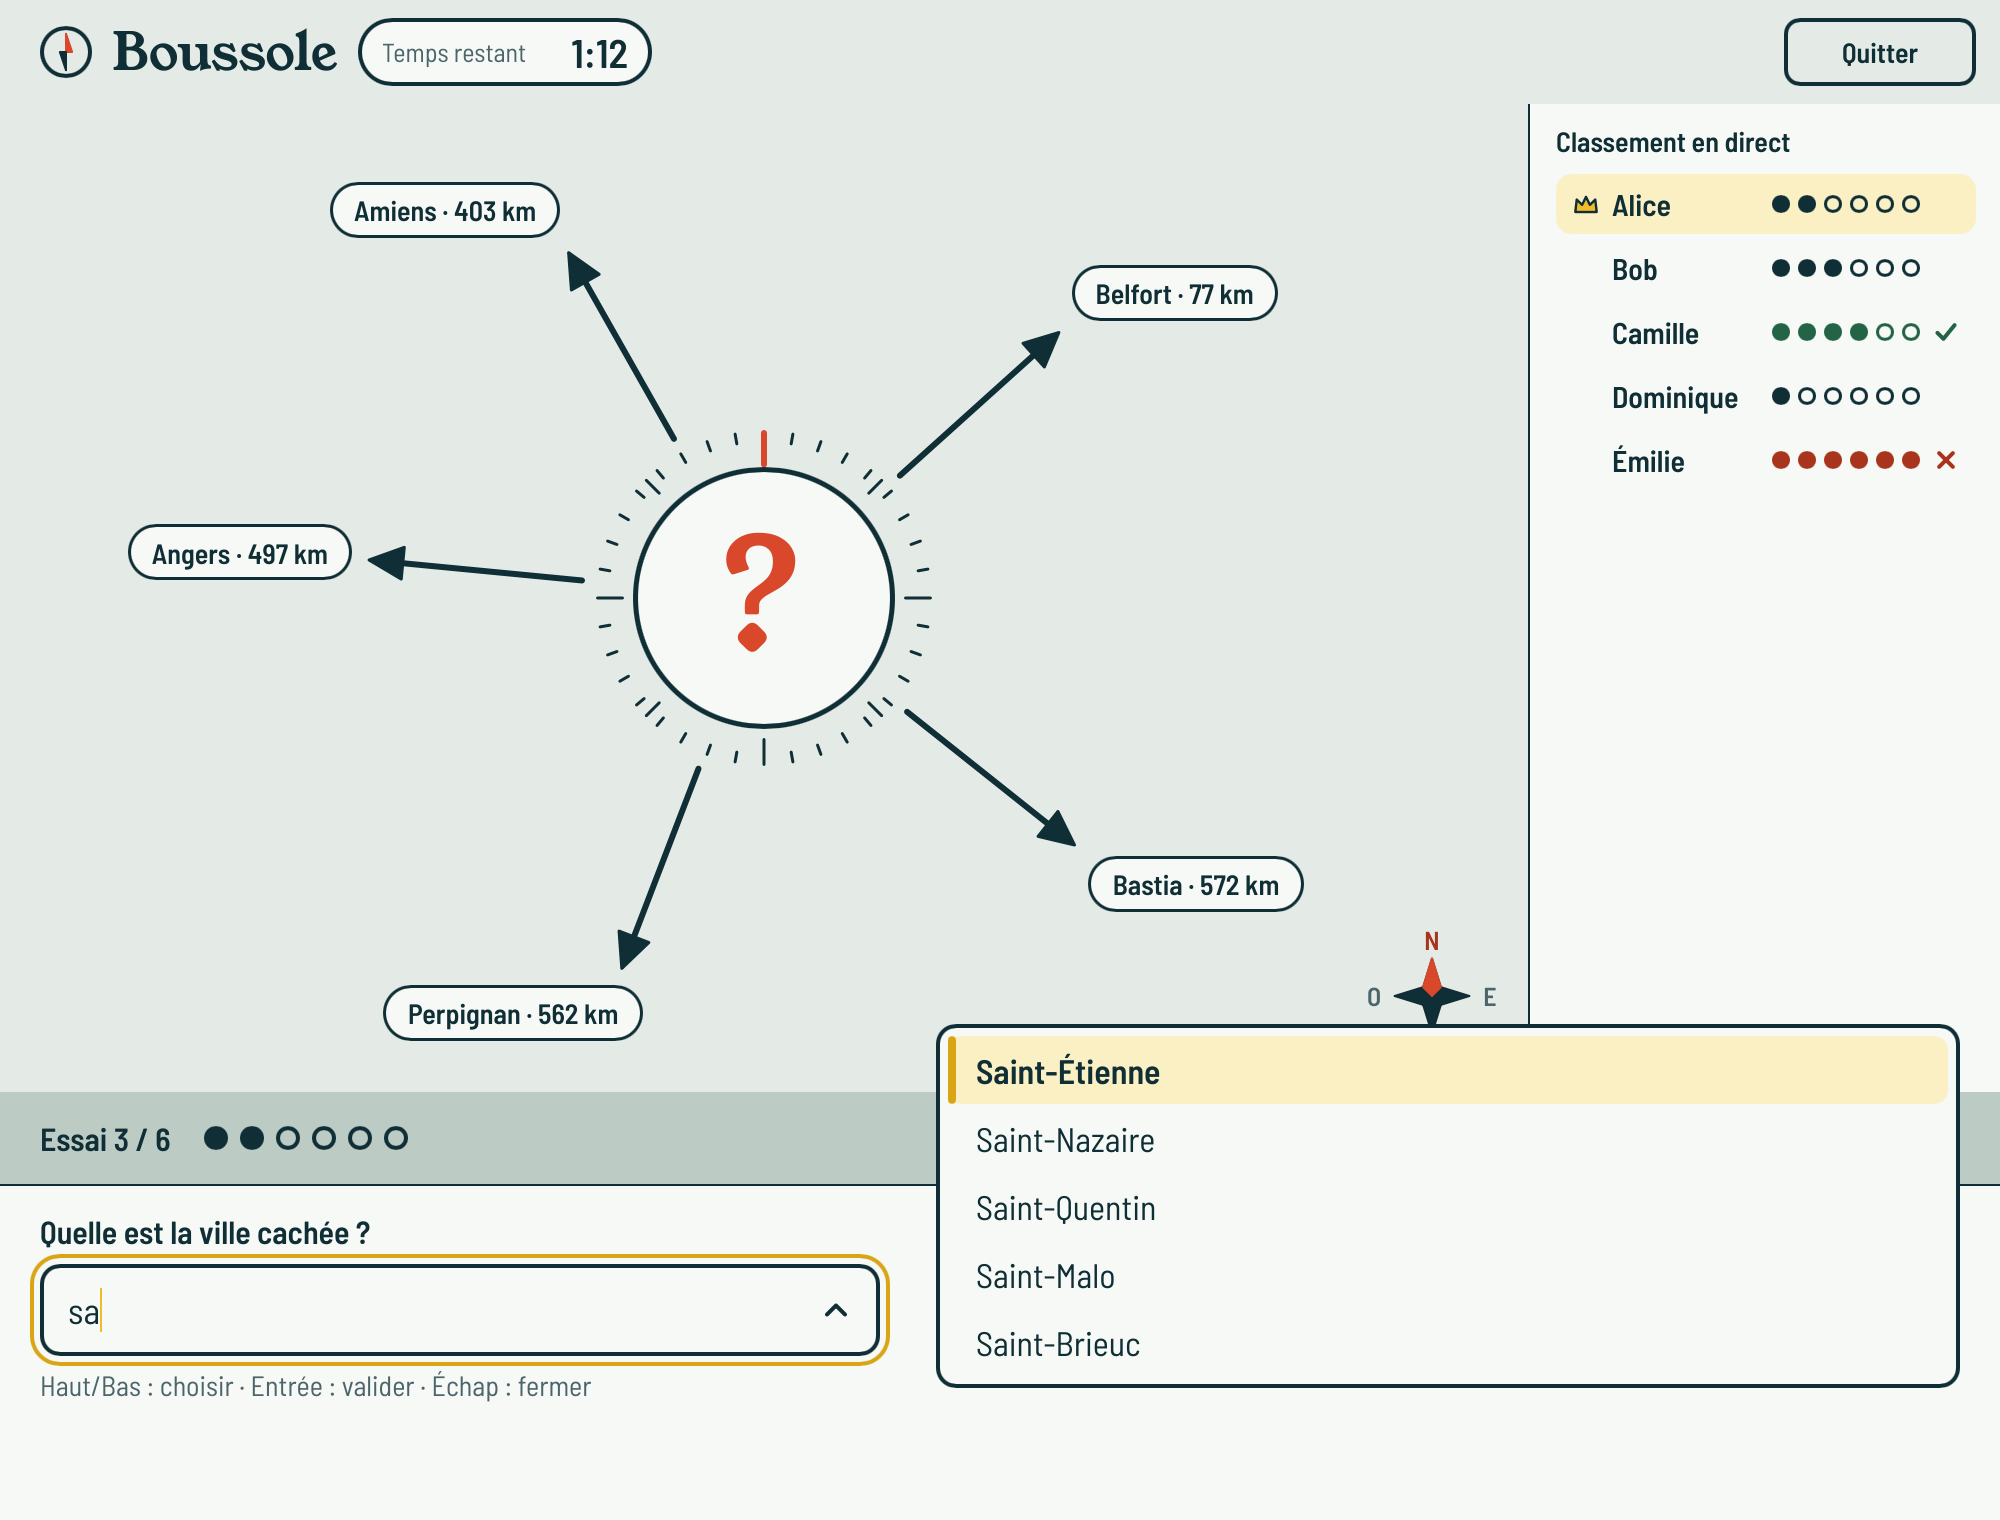
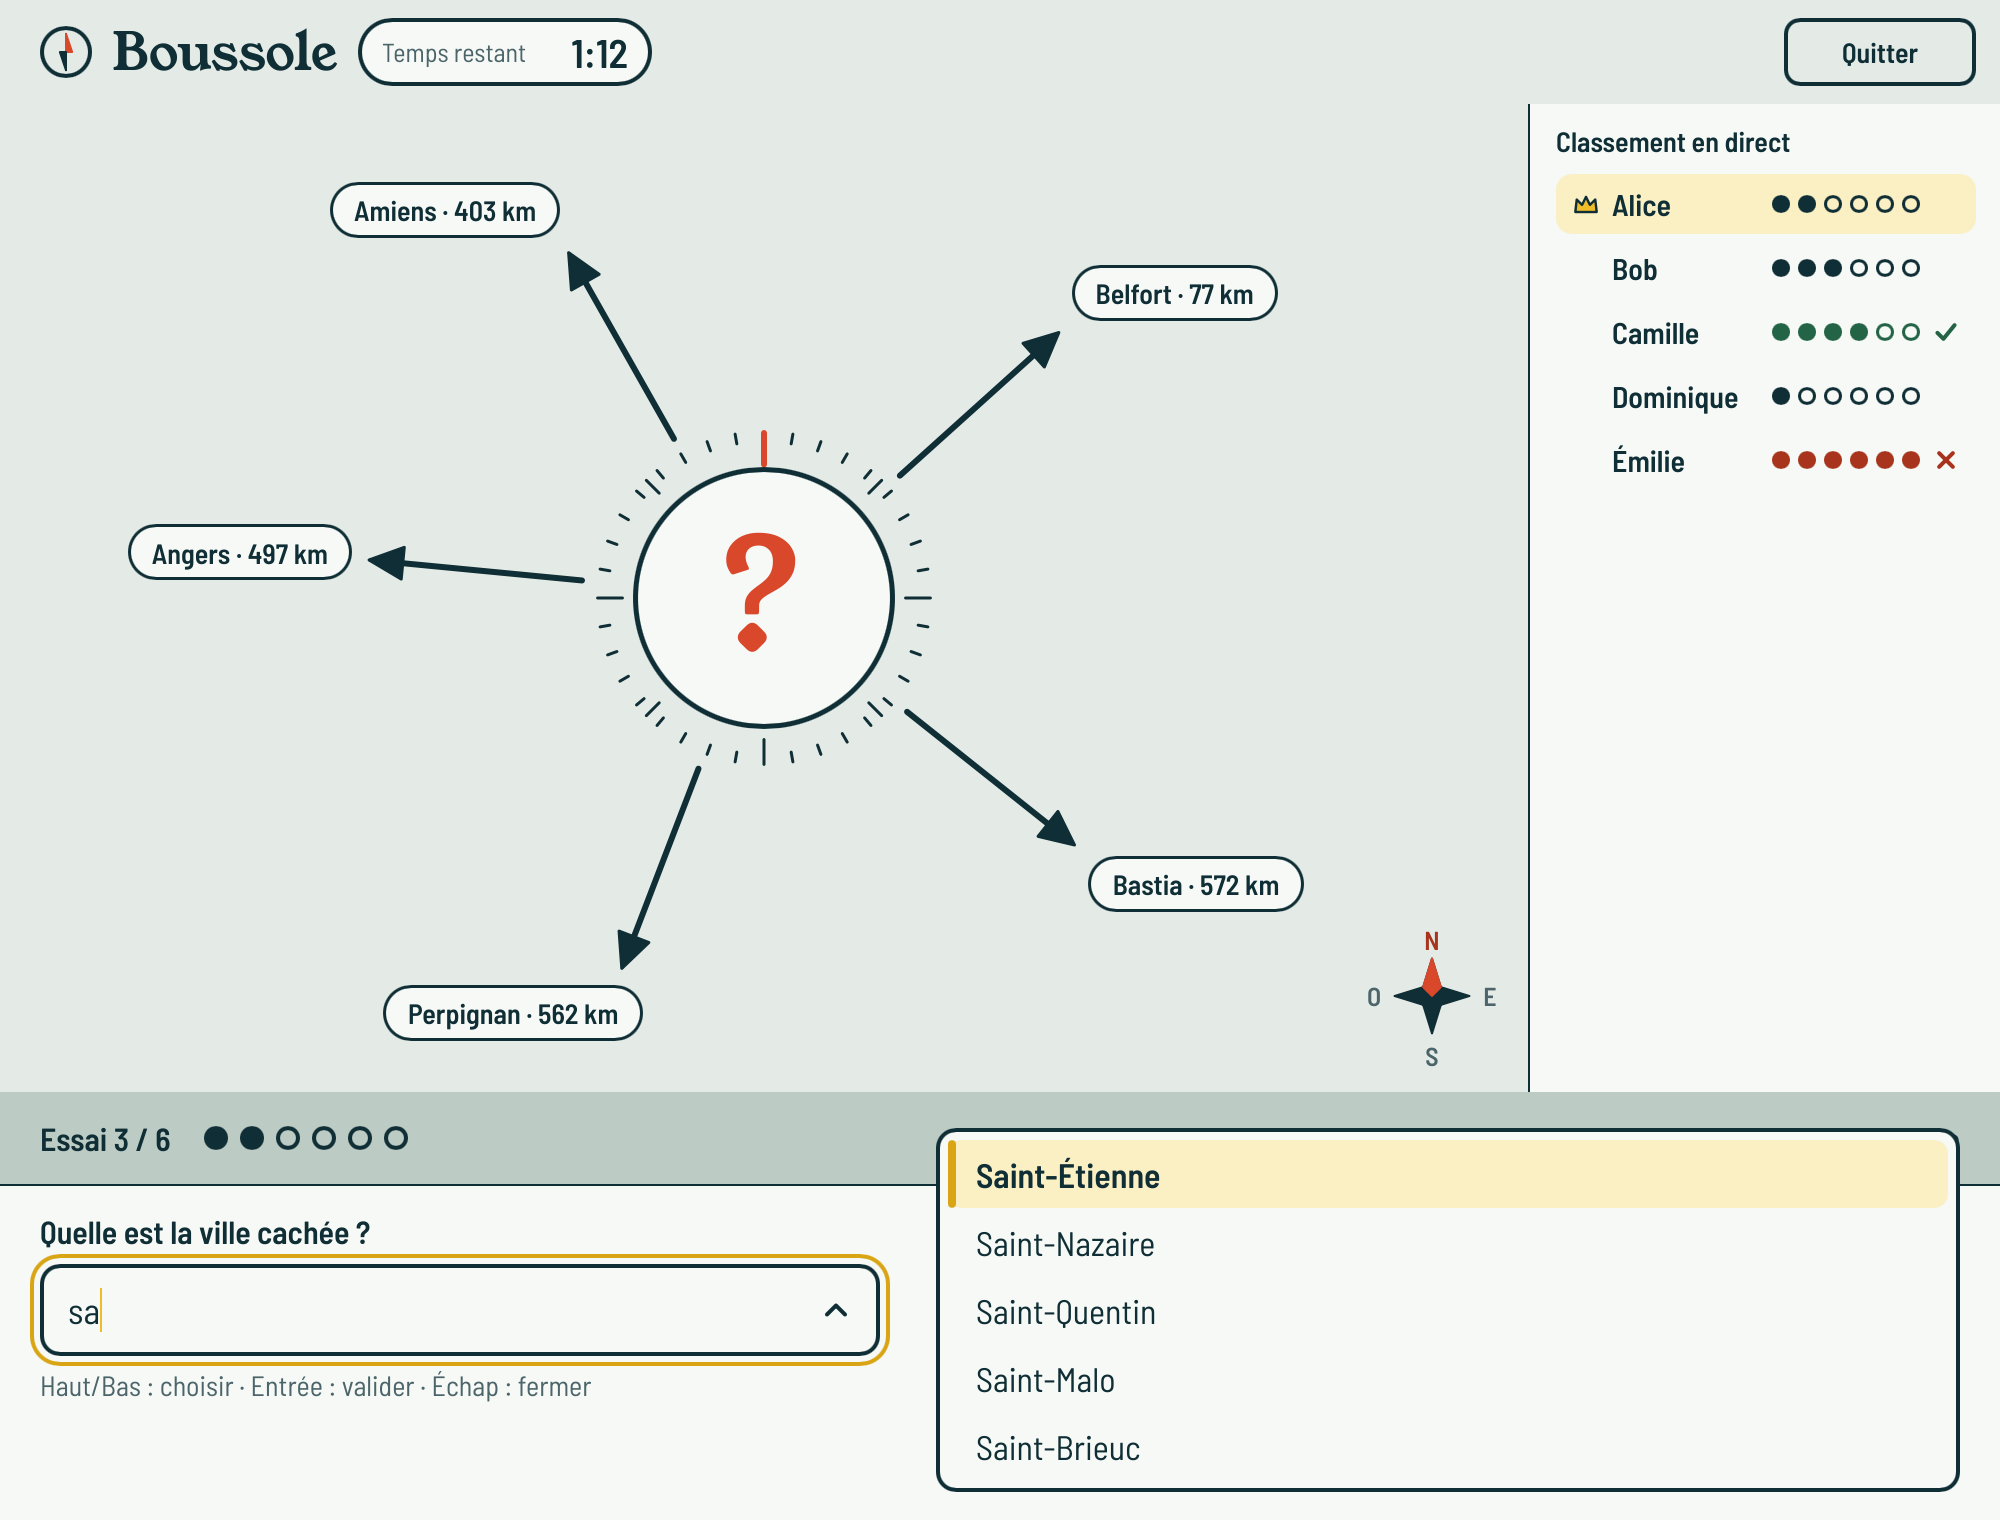
fix(client): online suggestion list no longer covers the board
The guess field's suggestion list is placed against the window's bottom edge, but the online
area starts below the 52 px header, so the list sat 52 px too high and covered the board and
the compass rose. It now gets the window's real bottom edge, like in solo. Tests first: the list
top stays at or below the board's bottom edge at 1000×760 and 800×600 (typed query and full
list). Screenshots regenerated and checked.

Changed region(s): [[0.465, 0.6803, 0.992, 0.9895], [0.961, 0.8967, 0.992, 0.9276]]

diff --git a/tests/online_flow.rs b/tests/online_flow.rs
@@ -1182,6 +1182,48 @@ fn a_course_guess_goes_out_with_the_keyboard_and_comes_back_in_the_history() {
     );
 }
 
+/// Typing opens the suggestion list in the dock: like in solo it must never cover the board
+/// (its top is at or below the board's bottom edge) and must stay inside the window.
+fn suggestions_stay_off_the_board(width: u32, height: u32) {
+    let (ui, server) = joined_at(width, height, course_config(), alice_and_bob());
+    start_round(
+        &server,
+        course_config(),
+        alice_and_bob(),
+        round_started(fixture!("round_started_course_facile")),
+    );
+    ui.wait("the round", |ui| ui.screen() == OnlineScreen::Round);
+    ui.h.type_text("sa");
+    let list = ui.element("Suggestions de villes", Some(AccessibleRole::List));
+    let top = list.absolute_position().y;
+    let bottom = top + list.size().height;
+    let board_bottom = height as f32 - 46.0 - 168.0;
+    assert!(
+        top >= board_bottom - 0.5,
+        "the list (top {top}) covers the board (bottom {board_bottom}) at {width}×{height}"
+    );
+    assert!(
+        bottom <= height as f32 + 0.5,
+        "the list is inside the window"
+    );
+    // typing a full list too
+    ui.key(Key::Escape);
+    ui.key(Key::Escape);
+    ui.key(Key::DownArrow);
+    let list = ui.element("Suggestions de villes", Some(AccessibleRole::List));
+    assert!(list.absolute_position().y >= board_bottom - 0.5);
+}
+
+#[test]
+fn the_suggestion_list_does_not_cover_the_board_at_the_default_size() {
+    suggestions_stay_off_the_board(1000, 760);
+}
+
+#[test]
+fn the_suggestion_list_does_not_cover_the_board_at_the_minimum_size() {
+    suggestions_stay_off_the_board(800, 600);
+}
+
 #[test]
 fn a_server_refusal_reopens_the_field_and_explains() {
     let (ui, server) = course_round();
